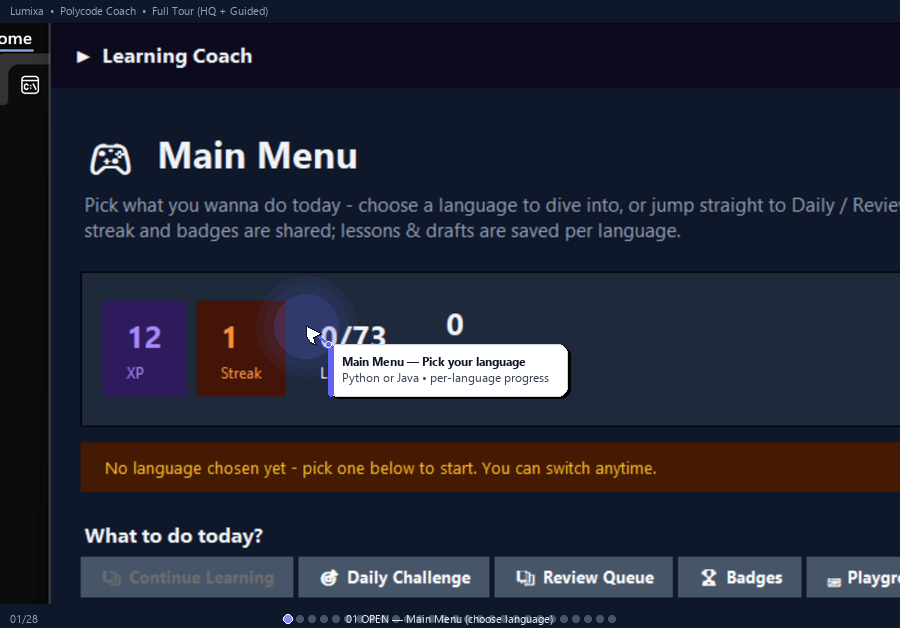
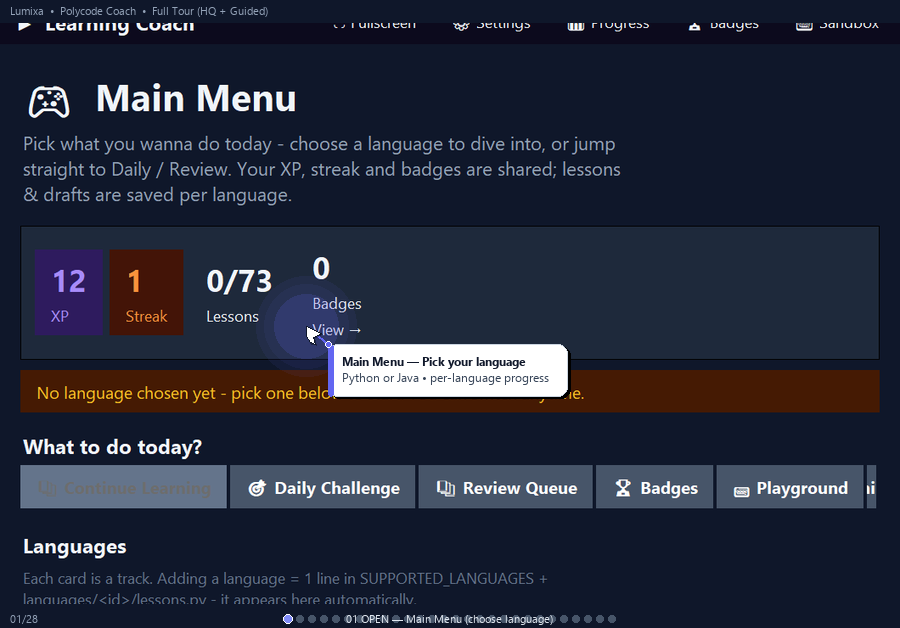
fix: redo GIF with window pinned topmost — no VS Code bleed
- keep topmost True entire capture (lift before each cap) + DPI awareness
  fixes frames 05/12/20 that showed VS Code terminal behind app
- regenerate demo.gif 900x628 28f 4.55MB global palette (was 4.64MB)
  preview 900x628 154KB — now pure Lumixa UI all frames

diff --git a/generate_guided_hq_gif.py b/generate_guided_hq_gif.py
@@ -25,6 +25,14 @@ warnings.filterwarnings("ignore", category=DeprecationWarning)
 warnings.filterwarnings("ignore", category=UserWarning)
 from pathlib import Path
 from PIL import Image, ImageGrab, ImageDraw, ImageFont, ImageFilter, ImageEnhance
+# DPI awareness for Windows — ensures winfo_rootx matches ImageGrab physical pixels
+try:
+    import ctypes
+    try: ctypes.windll.shcore.SetProcessDpiAwareness(2)  # Per-monitor DPI aware
+    except: 
+        try: ctypes.windll.shcore.SetProcessDpiAwareness(1)
+        except: ctypes.windll.user32.SetProcessDPIAware()
+except: pass
 
 ROOT = Path(__file__).resolve().parent
 PROGRESS = ROOT / "learning_progress.json"
@@ -536,7 +544,7 @@ def main():
     # Disable welcome help popup for clean recording
     try: app.progress["show_welcome_help"] = False
     except: pass
-    # Center window
+    # Center window — keep topmost ON for entire capture so VS Code never covers it
     try:
         app.geometry("1060x740")
         app.update()
@@ -547,15 +555,29 @@ def main():
         x = max(0,x); y = max(0,y)
         app.geometry(f"{w}x{h}+{x}+{y}")
         app.deiconify(); app.lift()
+        try: app.focus_force()
+        except: pass
         app.attributes("-topmost", True)
         app.update()
-        app.after(500, lambda: app.attributes("-topmost", False))
+        # Do NOT drop topmost — keep it pinned above VS Code the whole tour
+        # Re-assert every 400ms for first 2s to beat window manager
+        for _ in range(5):
+            app.lift(); app.attributes("-topmost", True); app.update(); time.sleep(0.15)
         for _ in range(22):
             app.update()
             if app.winfo_viewable() and app.winfo_width() > 300:
                 break
             time.sleep(0.12)
         time.sleep(0.9)
+        # Verify we have focus before warmup
+        try:
+            import ctypes
+            hwnd = ctypes.windll.user32.GetForegroundWindow()
+            # SetForegroundWindow for Tk hwnd
+            try: ctypes.windll.user32.SetForegroundWindow(app.winfo_id())
+            except: pass
+        except: pass
+        app.lift(); app.attributes("-topmost", True); app.update()
     except Exception as e:
         print(f"[warn] window setup {e}")
 
@@ -606,9 +628,10 @@ def main():
     # Helper to capture with guided overlay
     # Uses closure over frames/durations/labels
     def cap(label, *, cursor_frac=None, callout=None, callout_sub=None, dur=None, click=False, finder=None):
-        # Allows finder to override cursor_frac with precise pixel
-        app.update_idletasks(); app.update()
-        time.sleep(0.14)
+        # Always re-assert topmost before each grab so VS Code never bleeds in
+        try: app.lift(); app.attributes("-topmost", True); app.update_idletasks(); app.update()
+        except: pass
+        time.sleep(0.12)
         img = grab_clean(app)
         used_synthetic = False
         if img is None or is_black(img):
